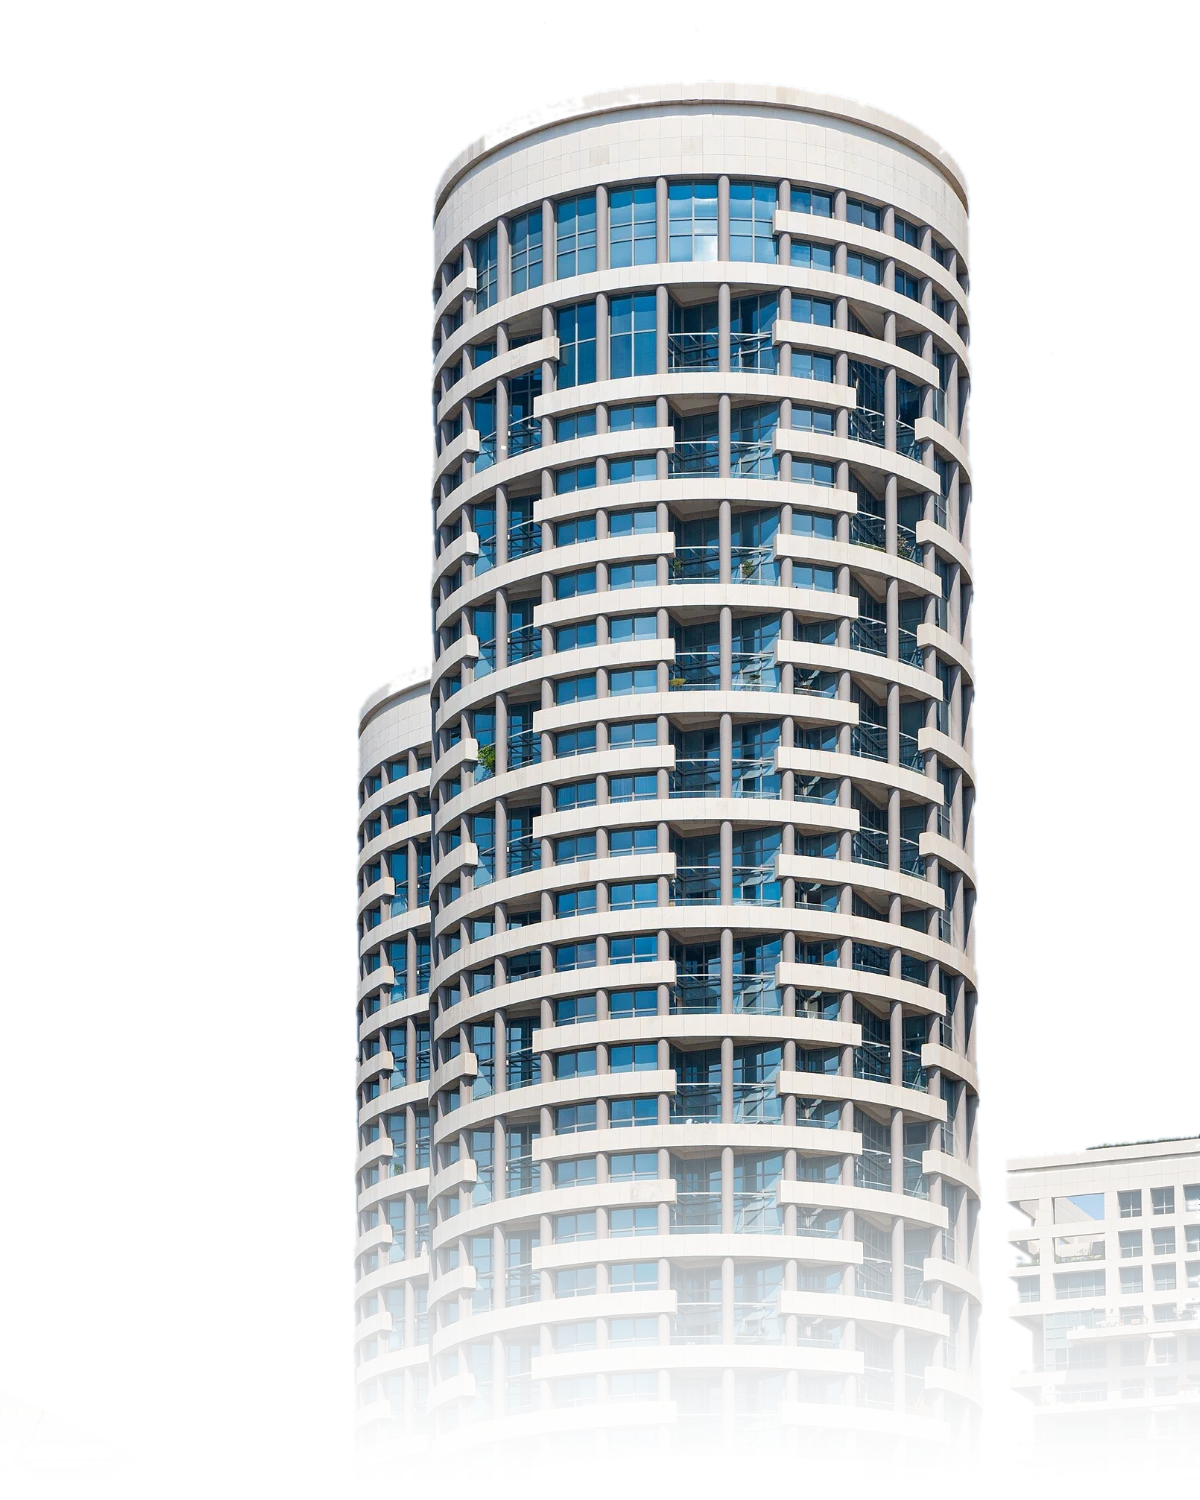
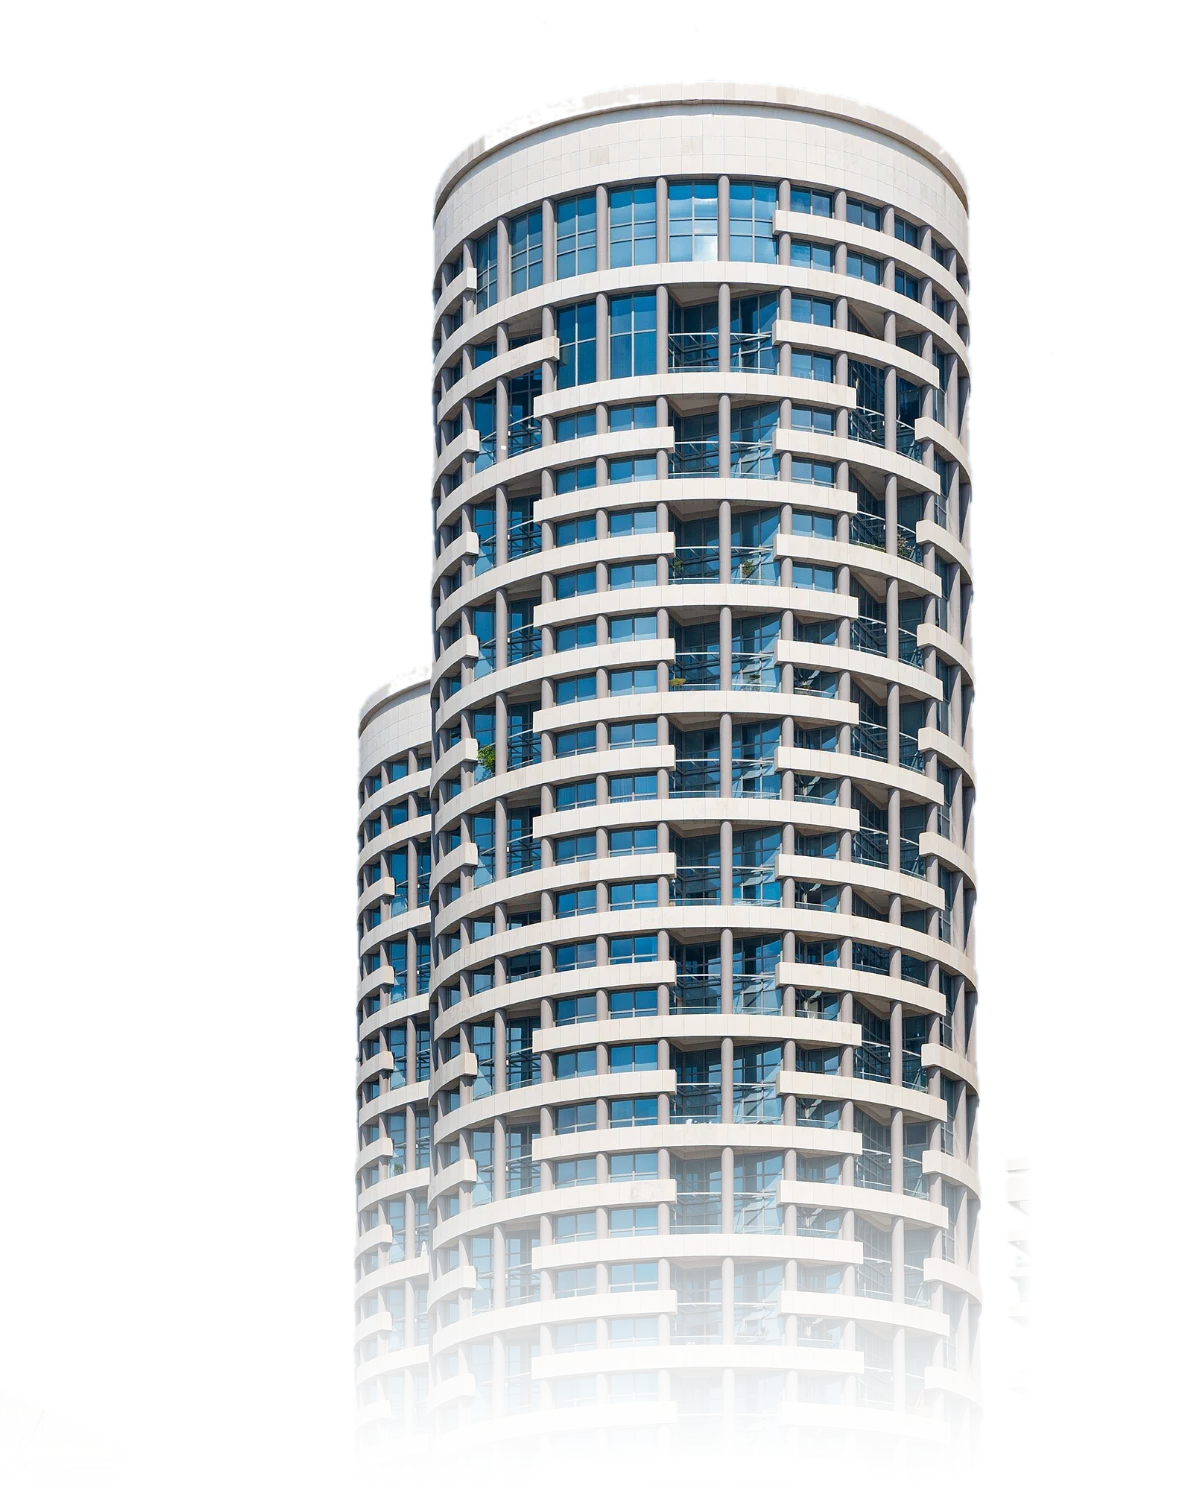
marketing(v5): hero cleanup per markup — no glow, no neighbor, no feed bar, bigger tower
Four marked fixes on frame 1:
1. Brass glow removed entirely — the area above the tower is now the
   plain page background, identical to the site.
2. The low neighboring building at bottom-right erased from the alpha
   (tower's right edge measured at x=0.81; kill ramp x 0.82-0.86 for
   y>0.60 — surgical, tower edge untouched).
3. Black bottom feed bar removed; the floating chips remain the only
   live overlay.
4. Tower enlarged: desktop bleed 118%->134% (-me 28%), mobile bleed
   widened to -mx-8.

Unused glow keyframes dropped from v5.css. Source photo restored from
git history (15a293f) for reprocessing since candidates were cleaned.

https://claude.ai/code/session_015QZv46qJXMtTbbRSf3NzFp

Changed region(s): [[0.8325, 0.736, 1.0, 0.92]]

diff --git a/apps/marketing/src/components/v5/LivingTower.tsx b/apps/marketing/src/components/v5/LivingTower.tsx
@@ -110,8 +110,6 @@ export function LivingTower({ className = '' }: { className?: string }) {
     return () => clearInterval(t);
   }, []);
 
-  const ev = EVENTS[idx];
-
   return (
     <div
       className={`relative ${className}`}
@@ -121,20 +119,8 @@ export function LivingTower({ className = '' }: { className?: string }) {
       onMouseEnter={() => (paused.current = true)}
       onMouseLeave={() => (paused.current = false)}
     >
-      {/* Brass glow — replaces the photographed sun; shines through the
-          transparent canyon between the cutout towers. Breathes slowly. */}
-      <div
-        aria-hidden
-        className={`absolute ${animate ? 'lt-glow' : ''}`}
-        style={{
-          inset: '-12%',
-          background:
-            'radial-gradient(48% 40% at 58% 20%, rgba(252,211,77,0.6) 0%, rgba(212,160,23,0.24) 40%, rgba(161,98,7,0.08) 62%, transparent 78%)',
-        }}
-      />
-
       {/* Cutout towers — sky removed, edges dissolve into the page.
-          The site background IS the sky. */}
+          The site background IS the sky: no glow, no halo, no frame. */}
       <img
         src={`${BASE}/v5/towers-cutout.webp`}
         alt=""
@@ -220,30 +206,6 @@ export function LivingTower({ className = '' }: { className?: string }) {
         );
       })}
 
-      {/* Bottom feed bar */}
-      <div
-        className="absolute inset-x-[8%] bottom-[6%] overflow-hidden rounded-xl"
-        style={{
-          background: 'rgba(20,16,12,0.6)',
-          backdropFilter: 'blur(10px)',
-          WebkitBackdropFilter: 'blur(10px)',
-          border: '1px solid rgba(255,255,255,0.12)',
-        }}
-        aria-hidden
-      >
-        <div key={ev.id} className={animate ? 'lt-feed-in' : ''}>
-          <div className="flex items-center gap-2.5 px-3.5 py-2.5">
-            <span className="h-1.5 w-1.5 shrink-0 rounded-full" style={{ background: ev.color }} />
-            <span className="truncate text-[12px] font-bold text-white">{ev.title}</span>
-            <span className="hidden truncate text-[11px] sm:block" style={{ color: 'rgba(255,255,255,0.6)' }}>
-              {ev.sub}
-            </span>
-            <span className="tnum ms-auto shrink-0 text-[10px]" style={{ color: 'rgba(255,255,255,0.55)', fontFamily: 'var(--font-mono)' }}>
-              {ev.time}
-            </span>
-          </div>
-        </div>
-      </div>
     </div>
   );
 }

diff --git a/apps/marketing/src/app/v5/v5.css b/apps/marketing/src/app/v5/v5.css
@@ -258,14 +258,8 @@
 .v5 .lb-blink { animation: v5-blink 1.8s ease-in-out infinite; }
 
 /* ---------- Living Tower (cutout hero) ---------- */
-/* The towers are a transparent-background cutout: the page background
-   IS the sky. A brass glow breathes behind them through the canyon. */
-@keyframes v5-glow {
-  from { opacity: 0.7; transform: scale(0.96); }
-  to { opacity: 1; transform: scale(1.05); }
-}
-.v5 .lt-glow { animation: v5-glow 7s ease-in-out infinite alternate; }
-
+/* The tower is a transparent-background cutout: the page background
+   IS the sky — no glow, no halo, no frame. */
 @keyframes v5-grow {
   from { transform: scale(1); }
   to { transform: scale(1.03); }
@@ -316,7 +310,7 @@
   .v5 .reveal { opacity: 1; transform: none; transition: none; }
   .v5 .ticker-strip { animation: none; }
   .v5 .lb-wave, .v5 .lb-blink { animation: none; }
-  .v5 .lt-glow, .v5 .lt-grow, .v5 .lt-ping, .v5 .lt-chip[data-active='true'], .v5 .lt-feed-in { animation: none; }
+  .v5 .lt-grow, .v5 .lt-ping, .v5 .lt-chip[data-active='true'], .v5 .lt-feed-in { animation: none; }
   .v5 .btn:active { transform: none; }
   .v5 * { transition-duration: 0.01ms !important; }
 }

diff --git a/apps/marketing/src/components/v5/Hero.tsx b/apps/marketing/src/components/v5/Hero.tsx
@@ -61,7 +61,7 @@ export function Hero() {
             <Reveal delay={200}>
               {/* Frameless bleed: edge-to-edge on mobile, oversized toward
                   the viewport edge on desktop (hero section clips overflow). */}
-              <div className="-mx-5 sm:mx-0 lg:-me-[18%] lg:-mt-6 lg:w-[118%]">
+              <div className="-mx-8 sm:mx-0 lg:-me-[28%] lg:-mt-10 lg:w-[134%]">
                 <LivingTower />
               </div>
               <p className="mt-1 text-center text-[10px]" style={{ color: 'var(--ink-4)' }}>
